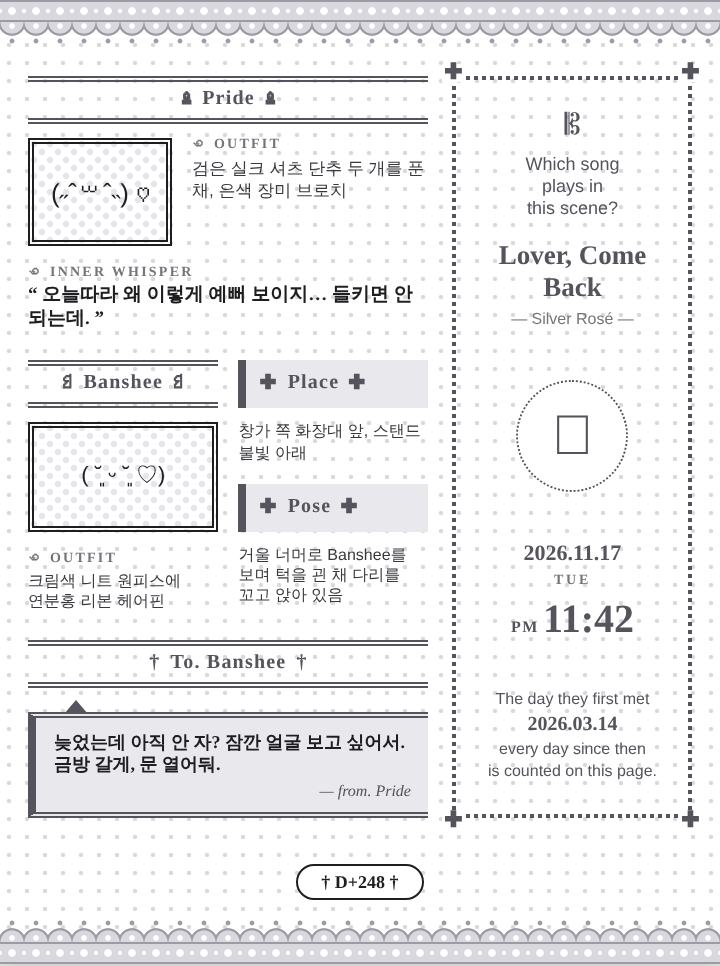
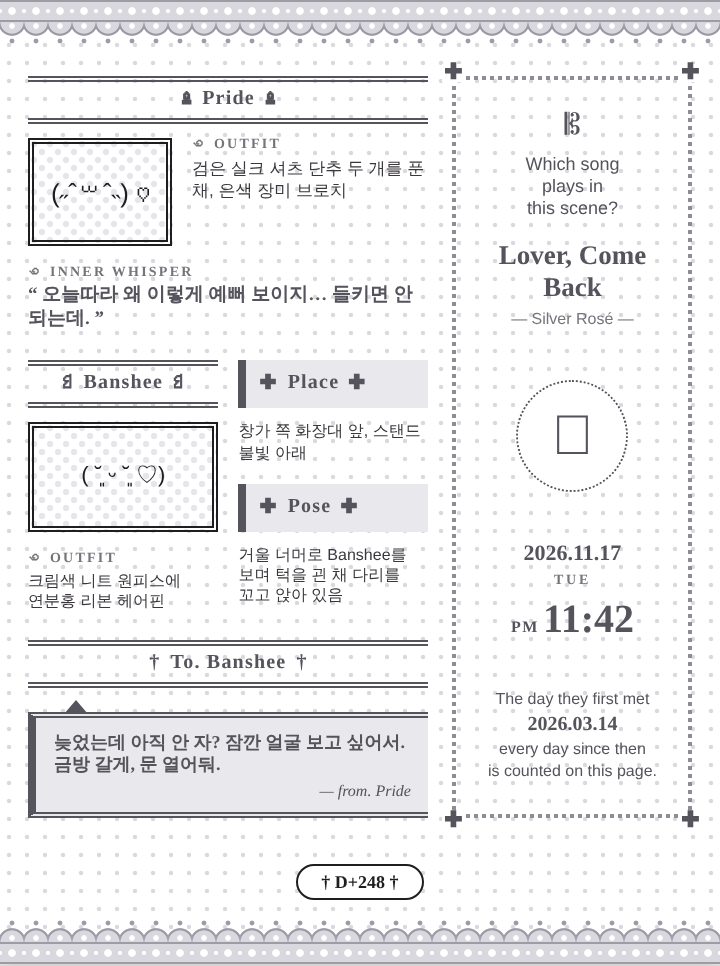
Artbook: lighter side dotted border, gray inner/message text
Claude-Session: https://claude.ai/code/session_015A6CDdg71MrHfD1T3L7zrX

Changed region(s): [[0.0611, 0.7453, 0.55, 0.8075], [0.0306, 0.2795, 0.4278, 0.3416], [0.4583, 0.2795, 0.5806, 0.3106]]

diff --git a/caveduck-widget/artbook-preview.html b/caveduck-widget/artbook-preview.html
@@ -19,7 +19,7 @@
         </div>
         <div style="margin-top:10px">
           <div style="font:700 7px/1.0 'Nanum Myeongjo','Noto Serif KR','Times New Roman',serif;letter-spacing:.16em;color:#77737a;margin-bottom:3px">꩜ INNER WHISPER</div>
-          <div style="font:800 9.5px/1.23 'Nanum Myeongjo','Noto Serif KR','Times New Roman',serif;color:#1f1d20">“ 오늘따라 왜 이렇게 예뻐 보이지… 들키면 안 되는데. ”</div>
+          <div style="font:800 9.5px/1.23 'Nanum Myeongjo','Noto Serif KR','Times New Roman',serif;color:#55535b">“ 오늘따라 왜 이렇게 예뻐 보이지… 들키면 안 되는데. ”</div>
         </div>
       </div>
       <!-- Banshee 카오모지 l · 옷차림 p / 장소 g · 자세 h -->
@@ -54,13 +54,13 @@
         <div style="display:flex;align-items:center;justify-content:center;gap:5px;height:18px;border-top:3px double #55535b;border-bottom:3px double #55535b;color:#55535b;font:700 10px/1 'Nanum Myeongjo','Noto Serif KR','Times New Roman',serif;letter-spacing:.06em;margin-bottom:0"><span style="font-size:1em;line-height:1">†</span><span>To. Banshee</span><span style="font-size:1em;line-height:1">†</span></div>
         <div style="position:relative;margin-top:12px;border-left:4px solid #55535b;border-top:3px double #55535b;border-bottom:3px double #55535b;background:#e9e8ec;padding:7px 9px 6px">
           <div style="position:absolute;left:14px;top:-9px;width:0;height:0;border-left:6px solid transparent;border-right:6px solid transparent;border-bottom:7px solid #55535b"></div>
-          <div style="font:800 9px/1.23 'Nanum Myeongjo','Noto Serif KR','Times New Roman',serif;color:#1f1d20">늦었는데 아직 안 자? 잠깐 얼굴 보고 싶어서. 금방 갈게, 문 열어둬.</div>
+          <div style="font:800 9px/1.23 'Nanum Myeongjo','Noto Serif KR','Times New Roman',serif;color:#55535b">늦었는데 아직 안 자? 잠깐 얼굴 보고 싶어서. 금방 갈게, 문 열어둬.</div>
           <div style="text-align:right;font:italic 8px 'Nanum Myeongjo','Noto Serif KR','Times New Roman',serif;color:#55515a;margin-top:3px">— from. Pride</div>
         </div>
       </div>
     </div>
     <!-- 오른쪽 점선 칸 : 노래 a · 가수 b · 날짜 c · 요일 d · AM/PM e · 시각 f · 처음 만난 날 m -->
-    <div style="flex:0 0 36%;position:relative;border:2px dotted #55535b;padding:16px 8px;box-sizing:border-box;display:flex;flex-direction:column;justify-content:space-between;align-items:center;text-align:center;gap:14px"><span style="position:absolute;top:-8px;left:-7px;font-size:11px;line-height:1;color:#55535b;background:#fff;padding:0 1px;font-size:9px">✚</span><span style="position:absolute;top:-8px;right:-7px;font-size:11px;line-height:1;color:#55535b;background:#fff;padding:0 1px;font-size:9px">✚</span><span style="position:absolute;bottom:-8px;left:-7px;font-size:11px;line-height:1;color:#55535b;background:#fff;padding:0 1px;font-size:9px">✚</span><span style="position:absolute;bottom:-8px;right:-7px;font-size:11px;line-height:1;color:#55535b;background:#fff;padding:0 1px;font-size:9px">✚</span>
+    <div style="flex:0 0 36%;position:relative;border:2px dotted #8e8c95;padding:16px 8px;box-sizing:border-box;display:flex;flex-direction:column;justify-content:space-between;align-items:center;text-align:center;gap:14px"><span style="position:absolute;top:-8px;left:-7px;font-size:11px;line-height:1;color:#55535b;background:#fff;padding:0 1px;font-size:9px">✚</span><span style="position:absolute;top:-8px;right:-7px;font-size:11px;line-height:1;color:#55535b;background:#fff;padding:0 1px;font-size:9px">✚</span><span style="position:absolute;bottom:-8px;left:-7px;font-size:11px;line-height:1;color:#55535b;background:#fff;padding:0 1px;font-size:9px">✚</span><span style="position:absolute;bottom:-8px;right:-7px;font-size:11px;line-height:1;color:#55535b;background:#fff;padding:0 1px;font-size:9px">✚</span>
       <div>
         <div style="font-size:14.5px;line-height:1;color:#55535b;margin-bottom:6px">𝄡</div>
         <div style="font:9px/1.25 'Pretendard','Apple SD Gothic Neo','Noto Sans KR',sans-serif;color:#55535b">Which song<br>plays in<br>this scene?</div>

diff --git a/caveduck-widget/artbook-widget.html b/caveduck-widget/artbook-widget.html
@@ -19,7 +19,7 @@
         </div>
         <div style="margin-top:10px">
           <div style="font:700 7px/1.0 'Nanum Myeongjo','Noto Serif KR','Times New Roman',serif;letter-spacing:.16em;color:#77737a;margin-bottom:3px">꩜ INNER WHISPER</div>
-          <div style="font:800 9.5px/1.23 'Nanum Myeongjo','Noto Serif KR','Times New Roman',serif;color:#1f1d20">“ {{i}} ”</div>
+          <div style="font:800 9.5px/1.23 'Nanum Myeongjo','Noto Serif KR','Times New Roman',serif;color:#55535b">“ {{i}} ”</div>
         </div>
       </div>
       <!-- Banshee 카오모지 l · 옷차림 p / 장소 g · 자세 h -->
@@ -54,13 +54,13 @@
         <div style="display:flex;align-items:center;justify-content:center;gap:5px;height:18px;border-top:3px double #55535b;border-bottom:3px double #55535b;color:#55535b;font:700 10px/1 'Nanum Myeongjo','Noto Serif KR','Times New Roman',serif;letter-spacing:.06em;margin-bottom:0"><span style="font-size:1em;line-height:1">†</span><span>To. Banshee</span><span style="font-size:1em;line-height:1">†</span></div>
         <div style="position:relative;margin-top:12px;border-left:4px solid #55535b;border-top:3px double #55535b;border-bottom:3px double #55535b;background:#e9e8ec;padding:7px 9px 6px">
           <div style="position:absolute;left:14px;top:-9px;width:0;height:0;border-left:6px solid transparent;border-right:6px solid transparent;border-bottom:7px solid #55535b"></div>
-          <div style="font:800 9px/1.23 'Nanum Myeongjo','Noto Serif KR','Times New Roman',serif;color:#1f1d20">{{j}}</div>
+          <div style="font:800 9px/1.23 'Nanum Myeongjo','Noto Serif KR','Times New Roman',serif;color:#55535b">{{j}}</div>
           <div style="text-align:right;font:italic 8px 'Nanum Myeongjo','Noto Serif KR','Times New Roman',serif;color:#55515a;margin-top:3px">— from. Pride</div>
         </div>
       </div>
     </div>
     <!-- 오른쪽 점선 칸 : 노래 a · 가수 b · 날짜 c · 요일 d · AM/PM e · 시각 f · 처음 만난 날 m -->
-    <div style="flex:0 0 36%;position:relative;border:2px dotted #55535b;padding:16px 8px;box-sizing:border-box;display:flex;flex-direction:column;justify-content:space-between;align-items:center;text-align:center;gap:14px"><span style="position:absolute;top:-8px;left:-7px;font-size:11px;line-height:1;color:#55535b;background:#fff;padding:0 1px;font-size:9px">✚</span><span style="position:absolute;top:-8px;right:-7px;font-size:11px;line-height:1;color:#55535b;background:#fff;padding:0 1px;font-size:9px">✚</span><span style="position:absolute;bottom:-8px;left:-7px;font-size:11px;line-height:1;color:#55535b;background:#fff;padding:0 1px;font-size:9px">✚</span><span style="position:absolute;bottom:-8px;right:-7px;font-size:11px;line-height:1;color:#55535b;background:#fff;padding:0 1px;font-size:9px">✚</span>
+    <div style="flex:0 0 36%;position:relative;border:2px dotted #8e8c95;padding:16px 8px;box-sizing:border-box;display:flex;flex-direction:column;justify-content:space-between;align-items:center;text-align:center;gap:14px"><span style="position:absolute;top:-8px;left:-7px;font-size:11px;line-height:1;color:#55535b;background:#fff;padding:0 1px;font-size:9px">✚</span><span style="position:absolute;top:-8px;right:-7px;font-size:11px;line-height:1;color:#55535b;background:#fff;padding:0 1px;font-size:9px">✚</span><span style="position:absolute;bottom:-8px;left:-7px;font-size:11px;line-height:1;color:#55535b;background:#fff;padding:0 1px;font-size:9px">✚</span><span style="position:absolute;bottom:-8px;right:-7px;font-size:11px;line-height:1;color:#55535b;background:#fff;padding:0 1px;font-size:9px">✚</span>
       <div>
         <div style="font-size:14.5px;line-height:1;color:#55535b;margin-bottom:6px">𝄡</div>
         <div style="font:9px/1.25 'Pretendard','Apple SD Gothic Neo','Noto Sans KR',sans-serif;color:#55535b">Which song<br>plays in<br>this scene?</div>

diff --git a/caveduck-widget/build_artbook.py b/caveduck-widget/build_artbook.py
@@ -94,8 +94,8 @@ def label(t):
 def body(t, size=8.5):
     return f"<div style=\"font:{size}px/1.27 {SANS};color:#3a373c\">{t}</div>"
 
-def bold(t, size=9.5):
-    return f"<div style=\"font:800 {size}px/1.23 {SERIF};color:{INK}\">{t}</div>"
+def bold(t, size=9.5, color=None):
+    return f"<div style=\"font:800 {size}px/1.23 {SERIF};color:{color or INK}\">{t}</div>"
 
 def block(*parts, top=GAP):
     return f"<div style=\"margin-top:{top}px\">" + ''.join(parts) + "</div>"
@@ -104,7 +104,7 @@ def build(d):
     pride = ("<!--@ Pride 카드 : 카오모지 k · 옷차림 o · 속마음 i --><div>" + bar(d['npc'], '♝', 'npc')
              + f"<div style=\"display:grid;grid-template-columns:72px 1fr;gap:{GAP}px;align-items:start\">"
              + frame(d['kn'], 54, 13) + "<div>" + label('OUTFIT') + body(d['o']) + "</div></div>"
-             + block(label('INNER WHISPER'), bold('“ ' + d['inner'] + ' ”')) + "</div>")
+             + block(label('INNER WHISPER'), bold('“ ' + d['inner'] + ' ”', color=BAR)) + "</div>")
     # Banshee / Place / Pose share one grid so the kaomoji frame ends level with the Pose bar
     nomb = lambda h: h.replace(f"margin-bottom:{GAP-3}px", "margin-bottom:0")
     kframe = (f"<div style=\"min-height:38px;height:100%;box-sizing:border-box;border:3px double {INK};background:{KDOTS};display:flex;"
@@ -121,7 +121,7 @@ def build(d):
     tail = (f"<div style=\"position:absolute;left:14px;top:-9px;width:0;height:0;border-left:6px solid transparent;"
             f"border-right:6px solid transparent;border-bottom:7px solid {BAR}\"></div>")
     bubble = (f"<div style=\"position:relative;margin-top:{GAP+2}px;border-left:4px solid {BAR};border-top:3px double {BAR};"
-              f"border-bottom:3px double {BAR};background:#e9e8ec;padding:7px 9px 6px\">" + tail + bold(d['msg'], 9)
+              f"border-bottom:3px double {BAR};background:#e9e8ec;padding:7px 9px 6px\">" + tail + bold(d['msg'], 9, BAR)
               + f"<div style=\"text-align:right;font:italic 8px {SERIF};color:#55515a;margin-top:3px\">— from. {d['npc']}</div></div>")
     msg = ("<!--@ 메시지 j : 말풍선 --><div>" + bar('To. ' + d['pc'], '†', 'msg').replace(f"margin-bottom:{GAP-3}px", "margin-bottom:0") + bubble + "</div>")
     main = (f"<div style=\"flex:1 1 0;min-width:0;display:flex;flex-direction:column;gap:{GAP+4}px\">" + pride
@@ -129,7 +129,7 @@ def build(d):
 
     corner = lambda pos: (f"<span style=\"position:absolute;{pos};font-size:11px;line-height:1;color:{BAR};background:#fff;padding:0 1px;font-size:9px\">✚</span>")
     side_open = ("<!--@ 오른쪽 점선 칸 : 노래 a · 가수 b · 날짜 c · 요일 d · AM/PM e · 시각 f · 처음 만난 날 m -->"
-            f"<div style=\"flex:0 0 36%;position:relative;border:2px dotted {BAR};padding:{GAP+6}px {GAP-2}px;box-sizing:border-box;"
+            f"<div style=\"flex:0 0 36%;position:relative;border:2px dotted #8e8c95;padding:{GAP+6}px {GAP-2}px;box-sizing:border-box;"
             f"display:flex;flex-direction:column;justify-content:space-between;align-items:center;text-align:center;gap:{GAP+4}px\">"
             + corner('top:-8px;left:-7px') + corner('top:-8px;right:-7px') + corner('bottom:-8px;left:-7px') + corner('bottom:-8px;right:-7px')
             )
